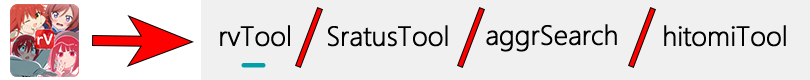
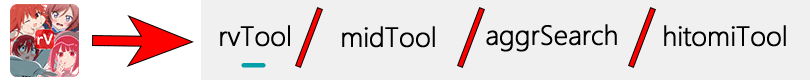
upd: docs

Changed region(s): [[0.4012, 0.325, 0.5556, 0.6]]

diff --git a/docs/.vitepress/config.ts b/docs/.vitepress/config.ts
@@ -112,6 +112,10 @@ export default defineConfig({
                         link: "/feat/ags",
                     },
                     {
+                        text: "🀄CGSMid",
+                        link: "/feat/mid",
+                    },
+                    {
                         text: "🚧其他脚本集",
                         link: "/feat/script",
                     }

diff --git a/docs/dev/hitomi.md b/docs/dev/hitomi.md
@@ -1,0 +1,122 @@
+# 🔐 Hitomi 加解密更新
+
+Hitomi 的图片路由由远端脚本动态控制，`gg.js` 中 `b`（时间戳目录）与 `m`（分流 case 列表）高频变化，`common.js` 定义 URL 组装行为作为逻辑真值来源
+
+当图片下载失败时，将以下 prompt 发给 ai，指导其对比最新 JS 与本地 Python 实现并同步更新
+
+#### 前置准备
+
+live gg.js(`https://ltn.gold-usergeneratedcontent.net/gg.js`)，
+live common.js(`https://ltn.gold-usergeneratedcontent.net/common.js`)，
+测试参考：`test/analyze/hitomi/`（gg.js / common.js 历史快照与样本数据）
+
+::: details prompt
+
+```text
+你是熟悉 Python / JS 逆向映射的后端工程师。请在本项目中自动更新 Hitomi 图片 URL 加解密逻辑，目标文件为 `utils/website/hitomi/__init__.py`。
+
+严格执行以下六阶段流程，每个阶段输出简短结论。
+
+## JS → Python 映射表
+
+| JS (common.js / gg.js) | Python | Location |
+|---|---|---|
+| `gg.m(g)` | `gg.m(g)` | `__init__.py` gg 类 |
+| `gg.s(h)` | `gg.s(h)` | `__init__.py` gg 类 |
+| `gg.b` | `gg.b` | `__init__.py` gg 类 |
+| `subdomain_from_url(url,base,dir)` | `Decrypt.subdomain_from_url(base,img_type,gg_s)` | `__init__.py` Decrypt 内部类 |
+| `full_path_from_hash(hash)` | `Decrypt.full_path_from_hash(img_hash,gg_s)` | `__init__.py` Decrypt 内部类 |
+| `real_full_path_from_hash(hash)` | `Decrypt.real_full_path_from_hash(img_hash,img_type,preview)` | `__init__.py` Decrypt 内部类 |
+| `url_from_hash(...)` | `HitomiUtils.get_img_url(...)` | `__init__.py` HitomiUtils |
+
+====================
+【阶段 1：拉取 live 脚本】
+====================
+1. 拉取以下两个最新脚本：
+   - https://ltn.gold-usergeneratedcontent.net/gg.js
+   - https://ltn.gold-usergeneratedcontent.net/common.js
+2. 记录拉取时间（UTC）与脚本来源 URL
+3. 若拉取失败，重试；仍失败则停止并输出"网络获取失败诊断"
+
+============================
+【阶段 2：结构契约检测（必须）】
+============================
+检查 gg.js 与 common.js 是否仍满足可自动更新的结构契约：
+
+A. gg.js 契约
+- 存在 `gg = { ... }` 对象
+- 存在 `m(g)`、`s(h)`、`b` 三个核心成员
+- `m(g)` 仍可识别其语义（典型为 switch-case + default；若变为 if/else 或混淆则视为不可识别）
+- `s(h)` 仍可识别末尾 3 位 hash 变换逻辑（典型 `/(..)(.)$/`）
+- `b` 仍可识别时间戳路径（典型 `'##########/'`）
+
+B. common.js 契约
+- 可定位函数：`subdomain_from_url`、`full_path_from_hash`、`real_full_path_from_hash`、`url_from_hash` / `url_from_url_from_hash`
+- 可提取 URL 构造关键规则（子域、路径拼接、扩展名处理）
+
+**若任一契约不可识别（显著混淆、结构重写、语义无法确定），立即停止代码修改，输出"结构不可识别诊断报告"，不要提交代码变更。**
+
+======================================
+【阶段 3：Python 逻辑对齐更新（gg + Decrypt）】
+======================================
+基于 live JS 真值，逐项对齐 `utils/website/hitomi/__init__.py`：
+
+1. `gg` 类
+   - `m_cases` 提取逻辑是否仍正确
+   - `b` 提取逻辑是否精准（避免误匹配任意 10 位数字）
+   - `s(h)` 变换规则是否与 JS 完全一致
+   - 异常处理是否清晰（匹配失败应抛出可诊断错误）
+
+2. `Decrypt` + `get_img_url`
+   - `subdomain_from_url` 的子域计算是否与 JS 一致
+   - `full_path_from_hash` 是否与 JS 路径规则一致
+   - `real_full_path_from_hash` 是否与 JS 正则替换一致
+   - `get_img_url` 是否正确映射 `url_from_hash` / `url_from_url_from_hash` 行为
+
+只修改必要代码，不进行无关重构。
+
+======================================
+【阶段 4：m() 语义一致性核验（重点）】
+======================================
+必须明确验证 Python `m()` 与 JS `gg.m()` 语义一致，尤其检查"反转问题"：
+
+- JS 典型语义：default=1，命中 case => 0
+- 验证 Python 是否与此一致
+- 至少使用两组 g 值做真值对拍：一组命中 case，一组不命中 case
+- 必须验证子域分流未被对调（w1/w2 或 a1/a2）
+
+若发现语义反转（in-case/out-case 对调），视为必须修复项。
+
+======================================
+【阶段 5：端到端回归测试（必须通过）】
+======================================
+执行：`python test/analyze/hitomi/test_flow.py`
+
+test_flow.py 覆盖了完整链路：Init → Fetch nozomi → Fetch gallery → Build URL → Download image → PIL Verify
+
+要求：
+- 必须 6/6 全通过，才允许声明完成
+- 若失败，输出失败步骤、根因、修复动作，然后重测直到通过
+- 禁止"未测完成"或"理论通过"式结论
+
+======================================
+【阶段 6：输出变更报告】
+======================================
+最终报告必须包含：
+1. 修改文件列表（通常仅 `utils/website/hitomi/__init__.py`）
+2. 每一处修改对应的 JS 依据（来自 gg.js 或 common.js 的哪条规则）
+3. `m()` 语义核验结果（含 in-case/out-case 对拍结论）
+4. 回归测试结果（贴 `[1/6]...[6/6]` 输出摘要）
+5. 风险与后续建议
+
+====================
+【硬性约束】
+====================
+- 仅修改必要代码，不破坏既有功能
+- 注释语言保持中文，代码风格保持与现有文件一致
+- 每个改动必须解释"对应了哪条 JS 变化"
+- 在 `python test/analyze/hitomi/test_flow.py` 未达到 6/6 前，不得输出"已完成"
+- 若触发停止条件，只输出诊断报告，不做代码改动
+```
+
+:::

diff --git a/docs/feat/mid.md b/docs/feat/mid.md
@@ -1,19 +1,70 @@
-# CGSMid
+# 🀄 CGSMid
 
-自动化工作流编辑器。
+::: tip 长期试行ing
+:::
 
-## Timeline 数值
+托管各类操作/决策的自动化系统，以规则(Mid)驱动
 
-| Lane | 阶段 | 值 |
-|------|------|-----|
-| A | WAIT_SITE | 90 |
-| B | WAIT_SEARCH | 100 |
-| C | WAIT_BOOK_DECISION | 210 |
-| D | WAIT_EP_DECISION | 310 |
-| E | POSTPROCESSING | 600 |
+![mid]({{URL_IMG}}/file/screenshots/1771752003264_mid.png)
 
-## 用法
+::: warning 常规漫的预览与 CGSMid流程 不兼容
+:::
 
-1. 从右侧规则库点 `+` 添加规则到 Lane
-2. 点击规则按钮可查看详情/排序/移除
-3. 开启「自动化」开关启用
+## 使用
+
+### 1. 创建 / 切换工作流
+
+右上角下拉框输入名称创建新工作流，或选择已有工作流切换  
+点击 💾 保存按钮持久化，🗑 删除按钮移除当前工作流
+
+### 2. 添加规则
+
+从右侧**规则库**按 Lane 分类浏览可用规则，点 `+` 添加到画布对应 Lane
+
+- 点击画布上的规则按钮 → 右侧切换为**详情面板**，可查看/修改参数
+- 详情面板中的 ↑↓ 徽标可调整同一 Lane 内的执行顺序，✕ 移除规则
+- 点击画布空白处返回规则库
+
+### 3. 启用自动化
+
+拨动开关后出现提示：
+
+- **保存后生效** — 下次进入对应阶段时自动执行已配置的规则
+- **立即激活** — 点击提示中的 ▶ 按钮，从「选择网站」阶段开始运行
+
+::: tip 运行中画布会高亮当前所在 Lane，
+Lane 旁 ▶ 按钮可手动触发该 Lane 的规则执行
+:::
+
+## Lane 与 Timeline
+
+画布底部的节点对应下载流程的五个决策阶段：
+
+| Lane | 阶段 | Timeline 值 |
+|------|------|------------|
+| A | 选择网站 | 90 |
+| B | 输入搜索 | 100 |
+| C | 选择书本 | 210 |
+| D | 选择章节 | 310 |
+| E | 后处理 | 600 |
+
+规则挂载到对应 Lane 后，工作流运行至该阶段时自动按优先级依次执行
+
+## 内置规则
+
+| 标签 | 名称 | Lane | 说明 |
+|------|------|------|------|
+| C1 | Select First Book | C | 自动选择第一本 |
+| C2 | Select First Book2 | C | 同上（备用） |
+| D1 | Select Latest n Episode | D | 选择最新 n 个章节，参数 `num` 可调 |
+| E1 | To CBZ | E | 下载完成后转换为 CBZ 格式 |
+
+::: details 工作流状态机
+```
+IDLE ──▶ RUNNING ──▶ WAITING（等待 Lane 执行）
+  ▲                      │
+  │        ◀─────────────┘
+  │         规则执行完毕
+  └──── FINISHED 重置
+```
+:::

diff --git a/docs/feat/index.md b/docs/feat/index.md
@@ -9,7 +9,6 @@
 
 |  |  [拷贝](https://www.2025copy.com/) |    [Māngabz](https://mangabz.com)     | [禁漫](https://18comic.vip/) |    [wnacg](https://www.wnacg.com/)    | [ExHentai](https://exhentai.org/) | [hitomi](https://hitomi.la/) | [hcomic](https://h-comic.com) |
 |:--------------------------------------|:-------------:|:---------:|:----:|:----------:|:----------:|:----------:|:----------:|
-| 预览 | ❌ |     ❌ | ✔ | ✔ | ✔ | ✔ | ✔ |
 | 📋读剪贴板 | ❌ | ❌ | ✔ | ✔ | ✔ | 🚧 | ❌ |
 | 🔎聚合搜索 | ❌ | ❌ | ✔ | ✔ | ✔ | 🚧 | ✔ |
 | 以图搜索 | ❌ | ❌ | ✔ | ✔ | ✔ | 🚧 | ✔ |
@@ -30,7 +29,12 @@
 | 顶栏按钮组 | 左上窗口置顶，其他常规浏览器的按钮自行摸索<br>可鼠标 **按住顶栏空白处** 移动内置浏览器窗口 |
 | 右上复制按钮 | 复制未完成任务链接，[📋跳转阅读 > 复制未完成任务链接](/feat/clip.md#复制未完成任务链接)   |
 | 其他常规 | 多选/翻页等如动图所示。详情使用看 `🎥视频使用指南3` |
-  
+
+::: details 常规漫的预览 > 输入搜索词 > 点右下`搜索预览`（不要点左下`搜索键`）
+
+![manga_preview]({{URL_IMG}}/file/screenshots/1771746417351_manga_preview.png)
+
+:::
 
 ## 3. 工具视窗
 
@@ -58,6 +62,10 @@
     </tr>
     <tr>
       <td style="text-align: left;"><strong>以图搜索</strong>: 借用 saucenao，按 CGS 内指示操作即可<br>（图一乐，你可以沿着链路继续找，或者来提供点靠谱的api/网站）</td>
+    </tr>
+    <tr>
+      <td style="text-align: center;">CGSMid<br><small>midTool</small></td>
+      <td style="text-align: left;"><a href="/feat/mid">🀄跳转阅读 > 使用</a></td>
     </tr>
     <tr>
       <td style="text-align: center;">聚合搜索<br><small>aggrSearch</small></td>

diff --git a/docs/feat/clip.md b/docs/feat/clip.md
@@ -39,6 +39,6 @@ macOS: [🌐Maccy](https://github.com/p0deje/Maccy)
 
 - [win] 进ditto选项，点高级进页面后，查找图示的两个值将其改为150
 
-![ditto_settings](../assets/img/faq/ditto_settings.png)
+![ditto_settings]({{URL_IMG}}/file/screenshots/1771752245633_ditto_settings.png)
 
 - [macOS] maccy：没得改，不用改  

diff --git a/docs/feat/script.md b/docs/feat/script.md
@@ -52,7 +52,7 @@ utils
 
 2. GUI 方式运行 (网站选择kemono，预检测通过即进入)
 
-![run_png](../assets/img/feat/scriptTool.png)
+![run_png]({{URL_IMG}}/file/screenshots/1771751999788_scriptTool.png)
 
 ::: warning 一些使用心得说明:
 
